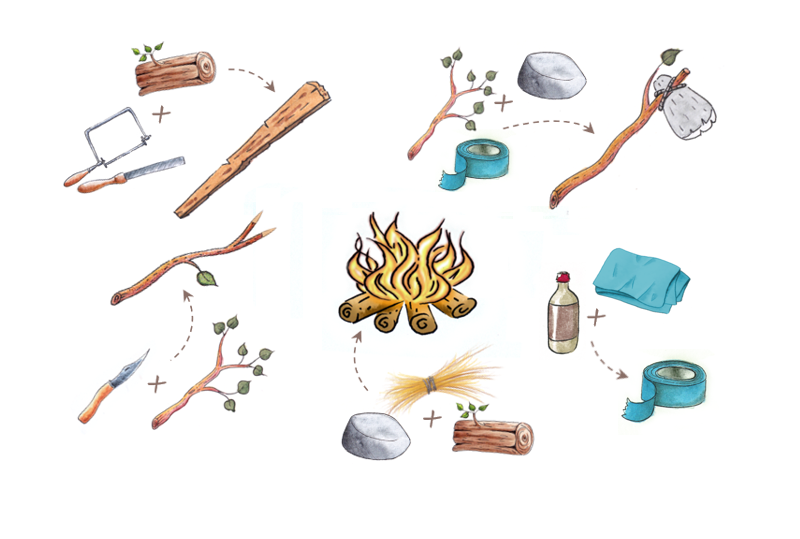
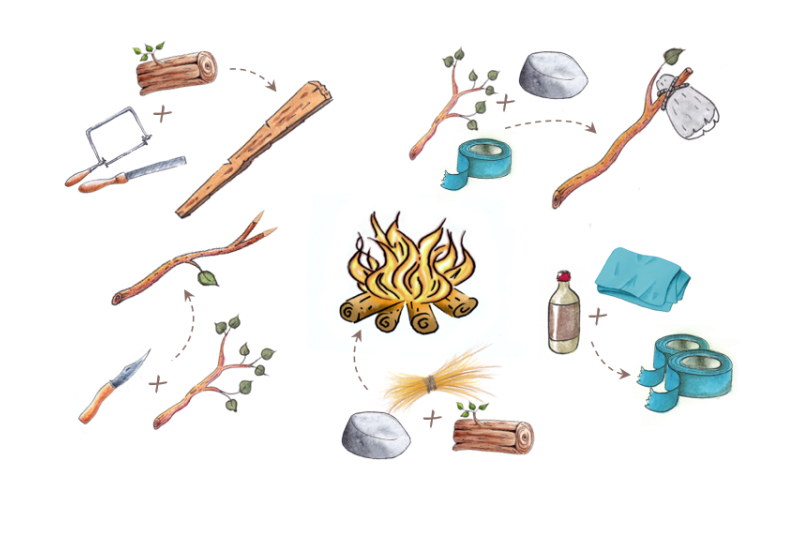
adding porridge recipe

diff --git a/js/start.js b/js/start.js
@@ -32,7 +32,7 @@ export default {
       this.initProps();
       this.startReal();
     }
-*/
+    */
     this.initCharacterSelection();
   },
 
@@ -80,12 +80,10 @@ export default {
 
     // TESTING
     if (Props.getGameProp('local')) {
-      /*
       Props.addWeaponToInventory('wooden-club', 1, { durability: 2 });
       Props.addWeaponToInventory('improvised-axe', 1, { durability: 2 });
       Props.addItemToInventory('bones', 2);
       Props.addItemToInventory('meat', 2);
-    */
     }
     if (inventoryPresets && Object.keys(inventoryPresets).length) {
       for (let item in inventoryPresets) {

diff --git a/js/crafting.js b/js/crafting.js
@@ -67,7 +67,7 @@ export default {
         }
         // second - create the crafting result (add inventory item or create weapon/building card)
         if (itemRecipe.result === 'inventory') {
-          Props.addItemToInventory(item, 1);
+          Props.addItemToInventory(item, itemRecipe.amount ?? 1);
         } else {
           // create a card of sort
           const here = Player.getPlayerPosition();

diff --git a/css/cooking.css b/css/cooking.css
@@ -1,11 +1,11 @@
 .card.cooking-mode {
-  transform: rotateY(180deg) scale(0.8);
+  transform: rotateY(180deg) scale(0.7);
 }
 .card.cooking-mode:hover {
   transform: rotateY(180deg) scale(0.9);
 }
 .card.cooking-mode.full {
-  transform: rotateY(360deg) scale(0.8);
+  transform: rotateY(360deg) scale(0.7);
 }
 .card.cooking-mode.full:hover {
   transform: rotateY(360deg) scale(0.9);

diff --git a/js/props.js b/js/props.js
@@ -414,6 +414,7 @@ let craftingRecipes = {
   tape: {
     items: [['cloth'], ['glue']],
     exclusive: false,
+    amount: 2,
     result: 'inventory',
   },
   'sharp-stick': {
